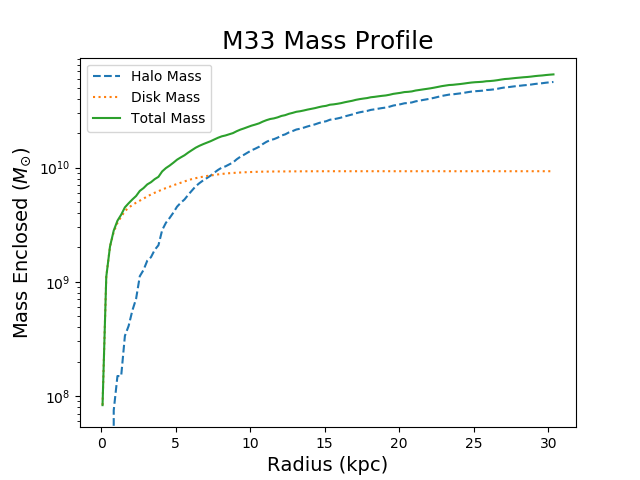
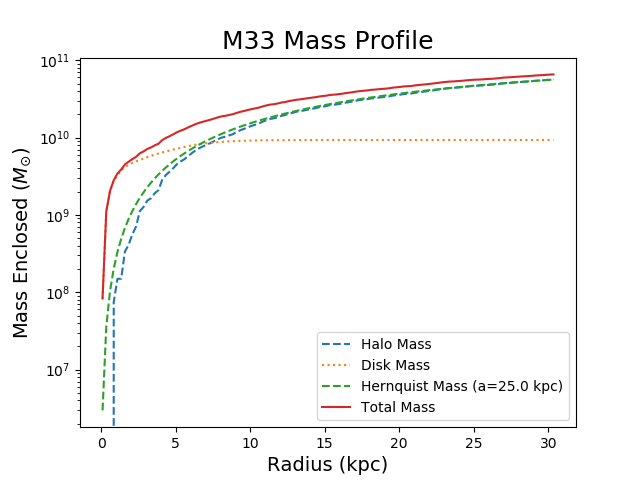
Combined Hernquist-Halo comparison plots with mass profile plots and removed individual Hernquist-Halo comparison plots

diff --git a/Homeworks/Homework5/MassProfile.py b/Homeworks/Homework5/MassProfile.py
@@ -200,31 +200,21 @@ plt.semilogy()
 plt.plot(r,MW.MassEnclosed(1,r),label='Halo Mass',linestyle='dashed')
 plt.plot(r,MW.MassEnclosed(2,r),label='Disk Mass',linestyle=':')
 plt.plot(r,MW.MassEnclosed(3,r),label='Bulge Mass',linestyle='dashdot')
+plt.plot(r,MW.HernquistM(r,MW_a,MW_Mhalo),label='Hernquist Mass (a={0})'.format(str(MW_a)),linestyle='dashed')
 plt.plot(r,MW.MassEnclosedTotal(r),label='Total Mass',linestyle='solid')
 plt.xlabel('Radius (kpc)',fontsize='14')
 plt.ylabel(r'Mass Enclosed ($M_{\odot}$)',fontsize='14')
 plt.legend()
 plt.title('Milky Way Mass Profile',fontsize='18')
-plt.savefig('C:/Users/Jimmy/400B_Lilly/Homeworks/Homework5/MW Mass Profile.png')
-
-# Plot simulated and Hernquist halo mass profiles of Milky Way
-plt.figure(2)
-plt.semilogy()
-plt.plot(r,MW.MassEnclosed(1,r),label='Halo Mass ({0}'.format(str(MW_Mhalo))+r'$\cdot 10^{12} M_{\odot})$',linestyle='solid')
-plt.plot(r,MW.HernquistM(r,MW_a,MW_Mhalo),label='Hernquist Mass (a={0})'.format(str(MW_a)),linestyle='dashed')
-plt.xlabel('Radius (kpc)',fontsize='14')
-plt.ylabel(r'Mass Enclosed ($M_{\odot}$)',fontsize='14')
-plt.legend()
-plt.title('Milky Way Hernquist - Halo Comparison',fontsize='18')
-plt.savefig('C:/Users/Jimmy/400B_Lilly/Homeworks/Homework5/MW Hernq - Halo Comparison.png')   
+plt.savefig('C:/Users/Jimmy/400B_Lilly/Homeworks/Homework5/MW Mass Profile.png')   
 
 # Plot rotation curve of Milky Way (each component and total)
 plt.figure(3)
 plt.plot(r,MW.CircularVelocity(1,r),label='Halo Velocity',linestyle='dashed')
 plt.plot(r,MW.CircularVelocity(2,r),label='Disk Velocity',linestyle=':')
 plt.plot(r,MW.CircularVelocity(3,r),label='Bulge Velocity',linestyle='dashdot')
-plt.plot(r,MW.CircularVelocityTotal(r),label='Total Velocity',linestyle='solid')
 plt.plot(r,MW.HernquistVCirc(r,MW_a,MW_Mhalo),label='Hernquist Velocity (a={0})'.format(str(MW_a)),linestyle='dashed')
+plt.plot(r,MW.CircularVelocityTotal(r),label='Total Velocity',linestyle='solid')
 plt.xlabel('Radius (kpc)',fontsize='14')
 plt.ylabel('Circular Speed (km/s)',fontsize='14')
 plt.legend()
@@ -247,31 +237,21 @@ plt.semilogy()
 plt.plot(r,M31.MassEnclosed(1,r),label='Halo Mass',linestyle='dashed')
 plt.plot(r,M31.MassEnclosed(2,r),label='Disk Mass',linestyle=':')
 plt.plot(r,M31.MassEnclosed(3,r),label='Bulge Mass',linestyle='dashdot')
+plt.plot(r,M31.HernquistM(r,M31_a,M31_Mhalo),label='Hernquist Mass (a={0})'.format(str(M31_a)),linestyle='dashed')
 plt.plot(r,M31.MassEnclosedTotal(r),label='Total Mass',linestyle='solid')
 plt.xlabel('Radius (kpc)',fontsize='14')
 plt.ylabel(r'Mass Enclosed ($M_{\odot}$)',fontsize='14')
 plt.legend()
 plt.title('M31 Mass Profile',fontsize='18')
-plt.savefig('C:/Users/Jimmy/400B_Lilly/Homeworks/Homework5/M31 Mass Profile.png')
-
-# Plot simulated and Hernquist halo mass profiles of M31
-plt.figure(2)
-plt.semilogy()
-plt.plot(r,M31.MassEnclosed(1,r),label='Halo Mass ({0}'.format(str(M31_Mhalo))+r'$\cdot 10^{12} M_{\odot})$',linestyle='solid')
-plt.plot(r,M31.HernquistM(r,M31_a,M31_Mhalo),label='Hernquist Mass (a={0})'.format(str(M31_a)),linestyle='dashed')
-plt.xlabel('Radius (kpc)',fontsize='14')
-plt.ylabel(r'Mass Enclosed ($M_{\odot}$)',fontsize='14')
-plt.legend()
-plt.title('M31 Hernquist - Halo Comparison',fontsize='18')
-plt.savefig('C:/Users/Jimmy/400B_Lilly/Homeworks/Homework5/M31 Hernq - Halo Comparison.png')   
+plt.savefig('C:/Users/Jimmy/400B_Lilly/Homeworks/Homework5/M31 Mass Profile.png') 
 
 # Plot rotation curve of Milky Way (each component and total)
 plt.figure(3)
 plt.plot(r,M31.CircularVelocity(1,r),label='Halo Velocity',linestyle='dashed')
 plt.plot(r,M31.CircularVelocity(2,r),label='Disk Velocity',linestyle=':')
 plt.plot(r,M31.CircularVelocity(3,r),label='Bulge Velocity',linestyle='dashdot')
-plt.plot(r,M31.CircularVelocityTotal(r),label='Total Velocity',linestyle='solid')
 plt.plot(r,M31.HernquistVCirc(r,M31_a,M31_Mhalo),label='Hernquist Velocity (a={0})'.format(str(M31_a)),linestyle='dashed')
+plt.plot(r,M31.CircularVelocityTotal(r),label='Total Velocity',linestyle='solid')
 plt.xlabel('Radius (kpc)',fontsize='14')
 plt.ylabel('Circular Speed (km/s)',fontsize='14')
 plt.legend()
@@ -293,6 +273,7 @@ plt.figure(1)
 plt.semilogy()
 plt.plot(r,M33.MassEnclosed(1,r),label='Halo Mass',linestyle='dashed')
 plt.plot(r,M33.MassEnclosed(2,r),label='Disk Mass',linestyle=':')
+plt.plot(r,M33.HernquistM(r,M33_a,M33_Mhalo),label='Hernquist Mass (a={0})'.format(str(M33_a)),linestyle='dashed')
 plt.plot(r,M33.MassEnclosedTotal(r),label='Total Mass',linestyle='solid')
 plt.xlabel('Radius (kpc)',fontsize='14')
 plt.ylabel(r'Mass Enclosed ($M_{\odot}$)',fontsize='14')
@@ -300,23 +281,12 @@ plt.legend()
 plt.title('M33 Mass Profile',fontsize='18')
 plt.savefig('C:/Users/Jimmy/400B_Lilly/Homeworks/Homework5/M33 Mass Profile.png')
 
-# Plot simulated and Hernquist halo mass profiles of M33
-plt.figure(2)
-plt.semilogy()
-plt.plot(r,M33.MassEnclosed(1,r),label='Halo Mass ({0}'.format(str(M33_Mhalo))+r'$\cdot 10^{12} M_{\odot})$',linestyle='solid')
-plt.plot(r,M33.HernquistM(r,M33_a,M33_Mhalo),label='Hernquist Mass (a={0})'.format(str(M33_a)),linestyle='dashed')
-plt.xlabel('Radius (kpc)',fontsize='14')
-plt.ylabel(r'Mass Enclosed ($M_{\odot}$)',fontsize='14')
-plt.legend()
-plt.title('M33 Hernquist - Halo Comparison',fontsize='18')
-plt.savefig('C:/Users/Jimmy/400B_Lilly/Homeworks/Homework5/M33 Hernq - Halo Comparison.png')   
-
 # Plot rotation curve of M33 (each component and total)
 plt.figure(3)
 plt.plot(r,M33.CircularVelocity(1,r),label='Halo Velocity',linestyle='dashed')
 plt.plot(r,M33.CircularVelocity(2,r),label='Disk Velocity',linestyle=':')
-plt.plot(r,M33.CircularVelocityTotal(r),label='Total Velocity',linestyle='solid')
 plt.plot(r,M33.HernquistVCirc(r,M33_a,M33_Mhalo),label='Hernquist Velocity (a={0})'.format(str(M33_a)),linestyle='dashed')
+plt.plot(r,M33.CircularVelocityTotal(r),label='Total Velocity',linestyle='solid')
 plt.xlabel('Radius (kpc)',fontsize='14')
 plt.ylabel('Circular Speed (km/s)',fontsize='14')
 plt.legend()
